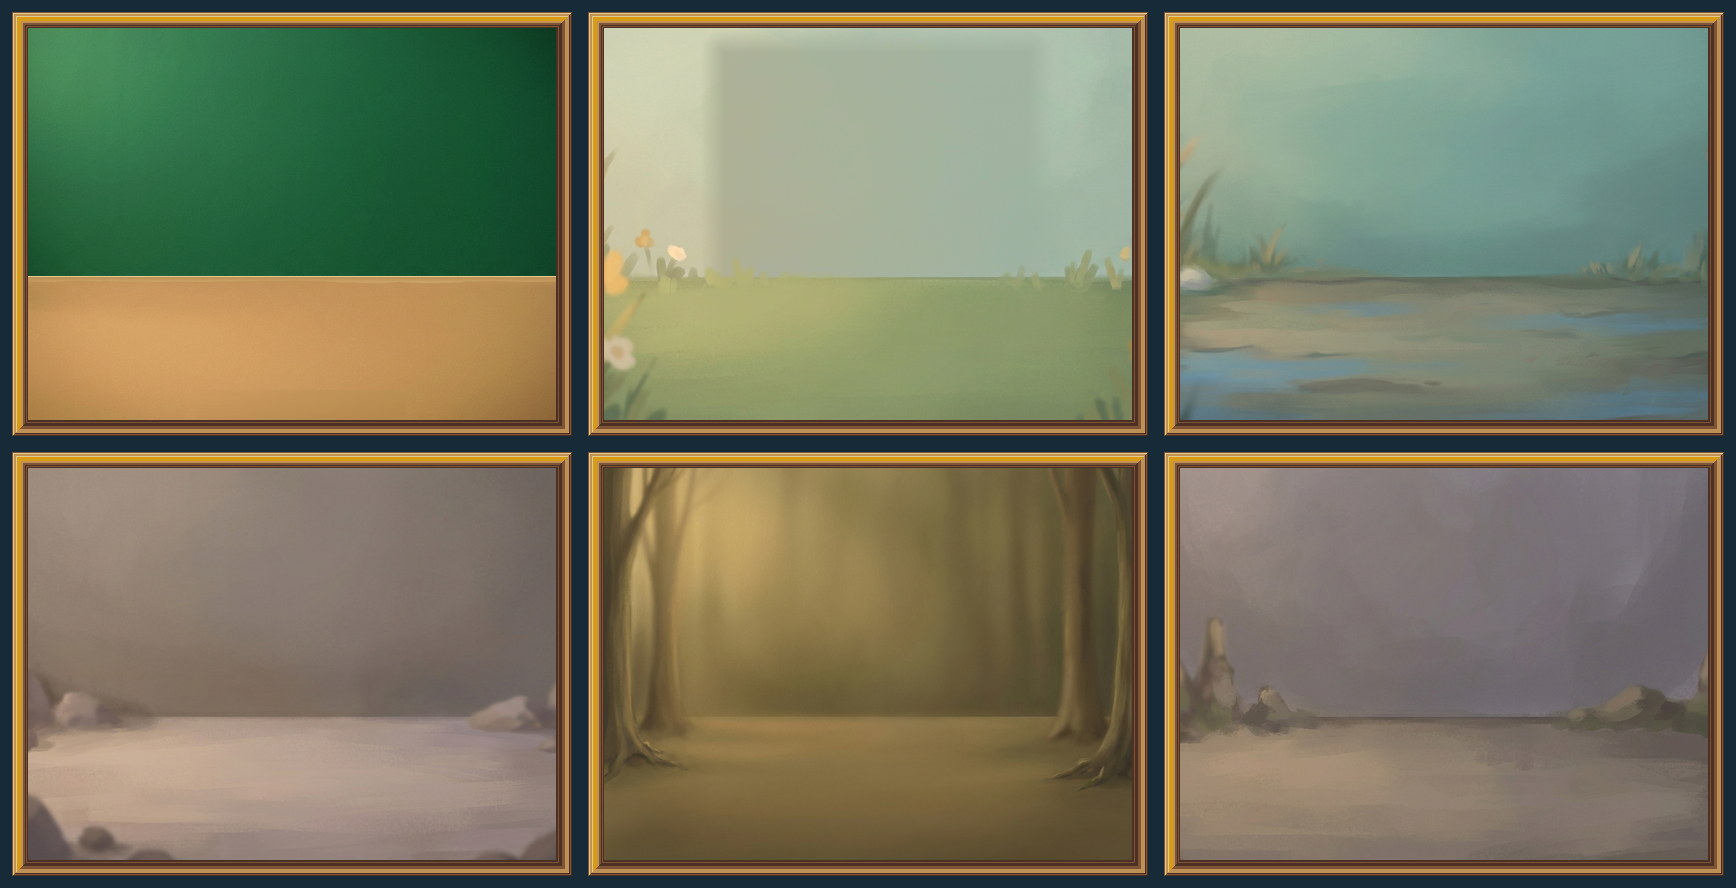
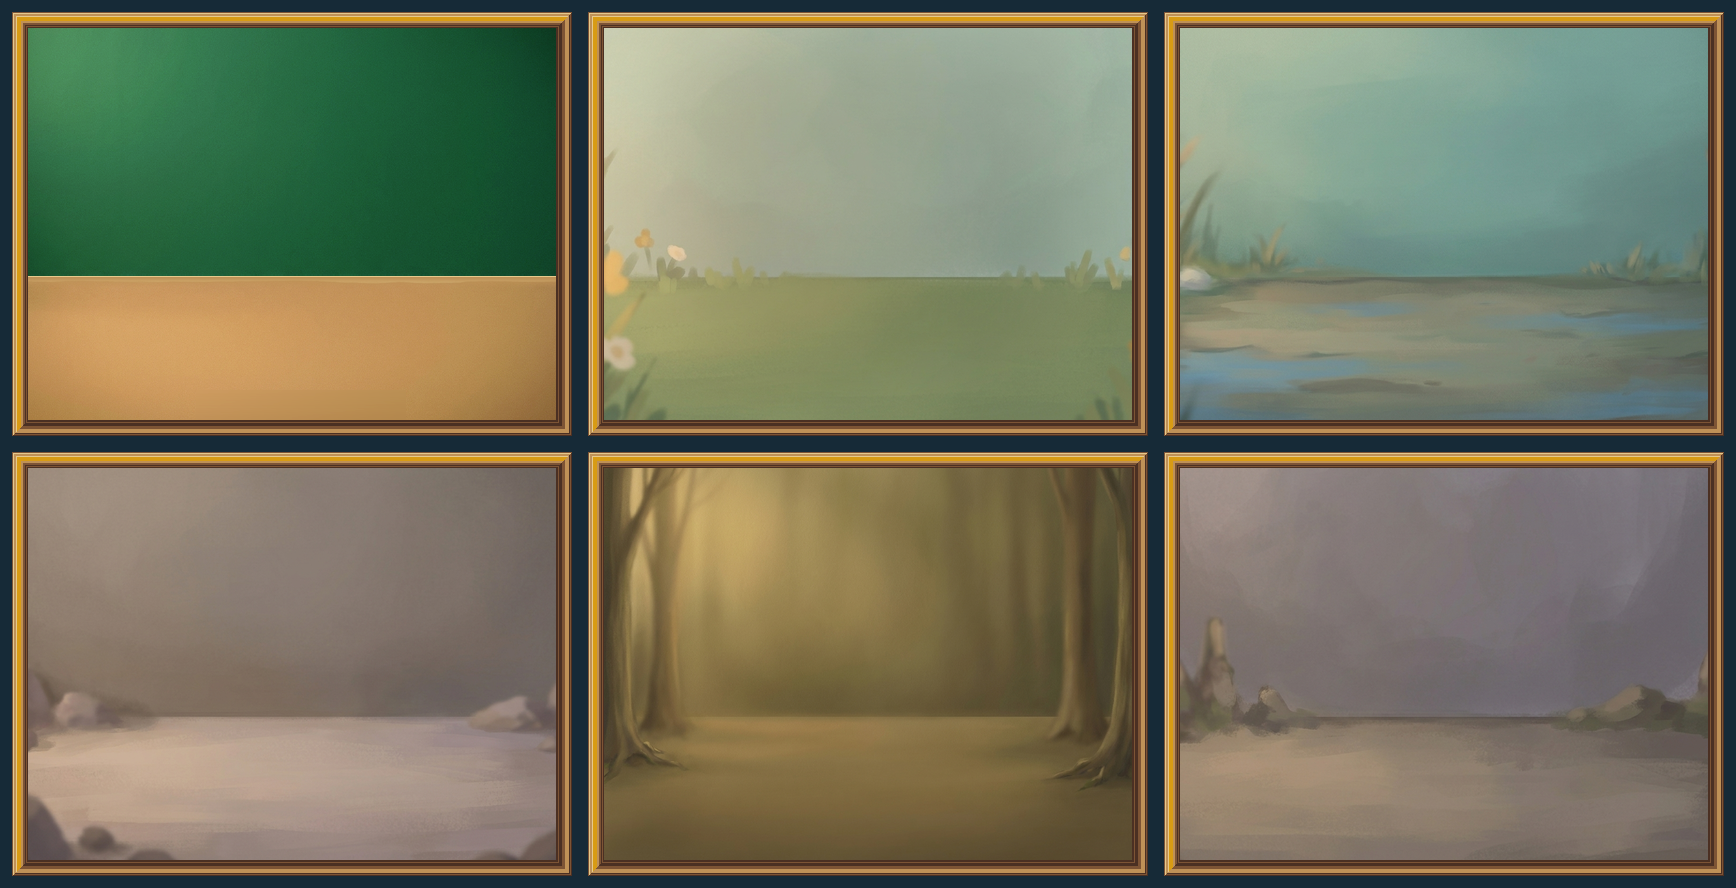
Pods masters pass 90: meadow backdrop graded with a smooth falloff instead of a patch

Changed region(s): [[0.4044, 0.2128, 0.6221, 0.3953], [0.3733, 0.2736, 0.4044, 0.3041], [0.3733, 0.152, 0.4044, 0.1824]]

diff --git a/art/station-masters/pods/tools/sittingbackdrops.py b/art/station-masters/pods/tools/sittingbackdrops.py
@@ -28,17 +28,13 @@ for n in ("plain", "meadow", "pond", "rock", "wood", "cave"):
         c[247] = c[246]; c[248] = pal["sand"]
         for y in range(249, 260): w_ = (y - 249) / 10.0; c[y] = np.array(pal["clay"]) * (1 - w_) + c[y] * w_      # `clay` from row 249, easing into the graded floor over ten rows
         crop = Image.fromarray(np.clip(np.rint(c), 0, 255).astype(np.uint8))
-    if n == "meadow":     # pass 89: in the centre box (local 120..424 x 24..336) the 99th percentile of brightness (Rec. 601 grey) under 176 (it was 202): a soft-knee compression of the brights inside the box, feathered 24 px outside it, so the glow and the edge flowers stay
-        c = np.asarray(crop).astype(float); lum = c @ np.array([0.299, 0.587, 0.114]); yy, xx = np.mgrid[0:408, 0:544]
-        dx = np.maximum(np.maximum(120 - xx, xx - 424), 0); dy = np.maximum(np.maximum(24 - yy, yy - 336), 0); wgt = np.clip(1 - np.hypot(dx, dy) / 24.0, 0, 1)
-        box = (xx >= 120) & (xx <= 424) & (yy >= 24) & (yy <= 336)
-        for knee in range(170, 100, -2):
-            for k in (0.6, 0.45, 0.3, 0.2, 0.1):
-                l2 = np.where(lum > knee, knee + (lum - knee) * k, lum); g = (l2 / np.maximum(lum, 1e-6))[..., None]; outc = c * (1 - wgt[..., None] + wgt[..., None] * g)
-                if np.percentile((outc @ np.array([0.299, 0.587, 0.114]))[box], 99) < 174: break
-            else: continue
-            break
-        crop = Image.fromarray(np.clip(np.rint(outc), 0, 255).astype(np.uint8)); print("meadow knee", knee, "k", k)
+    if n == "meadow":     # pass 89 (redone in pass 90): in the centre box (local 120..424 x 24..336) the 99th percentile of brightness (Rec. 601 grey) under 176 (it was 202): one smooth gain on every channel, a soft superellipse (exp(-((dx / 230)^4 + (dy / 210)^4)) about the middle of the box, so about 0.8 at the box's sides) scaled by the least amount that brings the percentile under 174; a lighting falloff with no edge, so the structure, the edge flowers and the glow outside stay and no flat patch appears
+        c = np.asarray(crop).astype(float); yy, xx = np.mgrid[0:408, 0:544]; box = (xx >= 120) & (xx <= 424) & (yy >= 24) & (yy <= 336)
+        wm = np.exp(-(((xx - 272) / 230.0) ** 4 + ((yy - 180) / 210.0) ** 4))
+        for amt in np.arange(0.05, 0.45, 0.005):
+            outc = c * (1 - amt * wm)[..., None]
+            if np.percentile((outc @ np.array([0.299, 0.587, 0.114]))[box], 99) < 174: break
+        crop = Image.fromarray(np.clip(np.rint(outc), 0, 255).astype(np.uint8)); print("meadow gain", round(float(amt), 3))
     name = f"sitting-backdrop-{n}-544x408"; crop.save(f"slices/{name}.png", optimize=True); out[n] = crop
     rep[n] = {"horizon_row": y0, "crop": [x0, t, x0 + Wc, t + Hc], "scale": round(544 / Wc, 3)}
     man[name] = {"size": [544, 408], "rect": None, "src": f"source/raw/sitting-backdrop-{srcn}.jpg (gemini-3-pro-image)", "made": f"the Sitting's {n} backdrop: a Pro painting (a soft wash, no creatures, no text), cropped to the 4:3 window whose horizon falls at the spec's local y 248 (crop {rep[n]['crop']}), reduced x{rep[n]['scale']} with Lanczos to 544x408, nothing else changed (pass 85)",

diff --git a/art/station-masters/pods/README.md b/art/station-masters/pods/README.md
@@ -726,7 +726,7 @@ Two requests to gemini-3-pro-image (`source/work/sitting-fixes-jobs.json`), both
 
 ## Pass 89 - the Sitting verdict: signed, graded, the crate repainted
 
-The art director's verdict on the Sitting (from a079009f), recorded: signed `sitting-backdrop-{pond,rock,cave}-544x408`, `sitting-gilt-560x424`, `sitting-gilt-lit-560x424`, `place-{meadow,pond,rock,wood,cave}-96x96` and `pose-S01-shake-dry-96x96` (`signed_in` "art director, sitting verdict (a079009f)"); `pose-S02-*` and `pose-S03-*` (12 ids) stay `placeholder`, never a delivery, to be repainted once each species' painting is accepted. Fixes in this pass, no paid call: **backdrop-plain** (graded in `tools/sittingbackdrops.py`: a per-channel gain on the wall and on the floor so the wall's mean is exactly `forest` (35, 98, 60) and the floor's `clay` (191, 145, 87) (it was 61, 90, 55 and 198, 135, 78), the top-left glow kept; local y 248 one `sand` row, `clay` from 249 easing into the floor over ten rows, the dark row 247 gone); **backdrop-meadow** (a soft-knee compression of the brights inside the centre box, feathered 24 px outside it: its 99th percentile of grey in local 120..424 x 24..336 is 173.1, it was 202; the glow and the edge flowers outside the feather are unchanged); **crate-sitting-80x56**, repainted like Home A-r3-a1's crates (a steel case with a lit top edge, a lid seam, two latches and steel posts round a teal front), the 24x16 gilt glyph at (28, 12), 33..46 x 35..48 plain teal for the lamp, no seal tag. All three `new`. Still to do from the verdict (one paid pass): backdrop-wood repainted, pose-S01-calm repainted, pose-S01-sleep-curled's eyes closed, and the three S01 48s' hand pass. Proofs: `marks/sitting-backdrops-proof-1x.png` and `marks/sitting-masters-proof-1x.png`.
+The art director's verdict on the Sitting (from a079009f), recorded: signed `sitting-backdrop-{pond,rock,cave}-544x408`, `sitting-gilt-560x424`, `sitting-gilt-lit-560x424`, `place-{meadow,pond,rock,wood,cave}-96x96` and `pose-S01-shake-dry-96x96` (`signed_in` "art director, sitting verdict (a079009f)"); `pose-S02-*` and `pose-S03-*` (12 ids) stay `placeholder`, never a delivery, to be repainted once each species' painting is accepted. Fixes in this pass, no paid call: **backdrop-plain** (graded in `tools/sittingbackdrops.py`: a per-channel gain on the wall and on the floor so the wall's mean is exactly `forest` (35, 98, 60) and the floor's `clay` (191, 145, 87) (it was 61, 90, 55 and 198, 135, 78), the top-left glow kept; local y 248 one `sand` row, `clay` from 249 easing into the floor over ten rows, the dark row 247 gone); **backdrop-meadow** (one smooth gain on every channel, a soft superellipse falloff about the middle of the centre box scaled by 0.175 at its middle: its 99th percentile of grey in local 120..424 x 24..336 is under 174, it was 202; a first soft-knee compression left a visible flat rectangle and was replaced in pass 90 before any sign-off; the structure, the glow and the edge flowers stay); **crate-sitting-80x56**, repainted like Home A-r3-a1's crates (a steel case with a lit top edge, a lid seam, two latches and steel posts round a teal front), the 24x16 gilt glyph at (28, 12), 33..46 x 35..48 plain teal for the lamp, no seal tag. All three `new`. Still to do from the verdict (one paid pass): backdrop-wood repainted, pose-S01-calm repainted, pose-S01-sleep-curled's eyes closed, and the three S01 48s' hand pass. Proofs: `marks/sitting-backdrops-proof-1x.png` and `marks/sitting-masters-proof-1x.png`.
 
 ## Pass 88 - the rail-tab re-sign recorded; the frost mark remapped and signed
 
